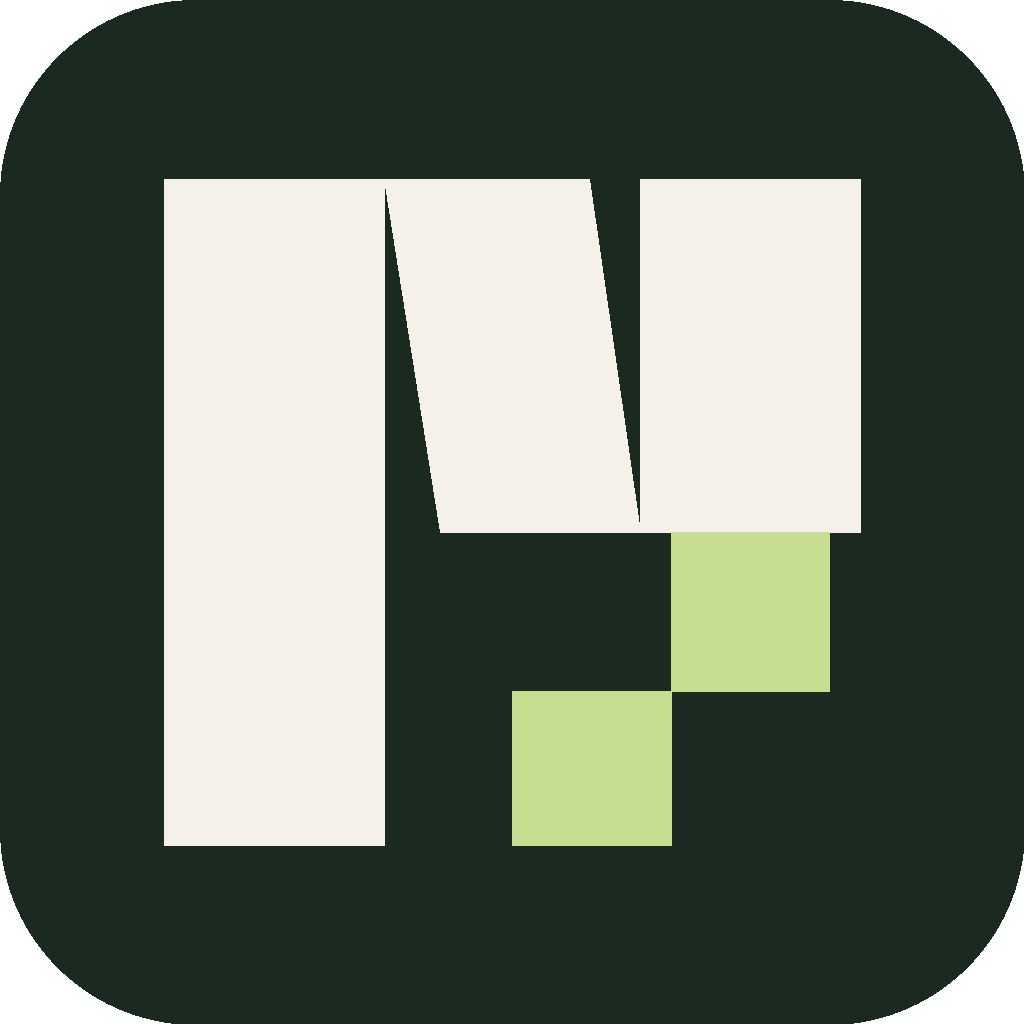
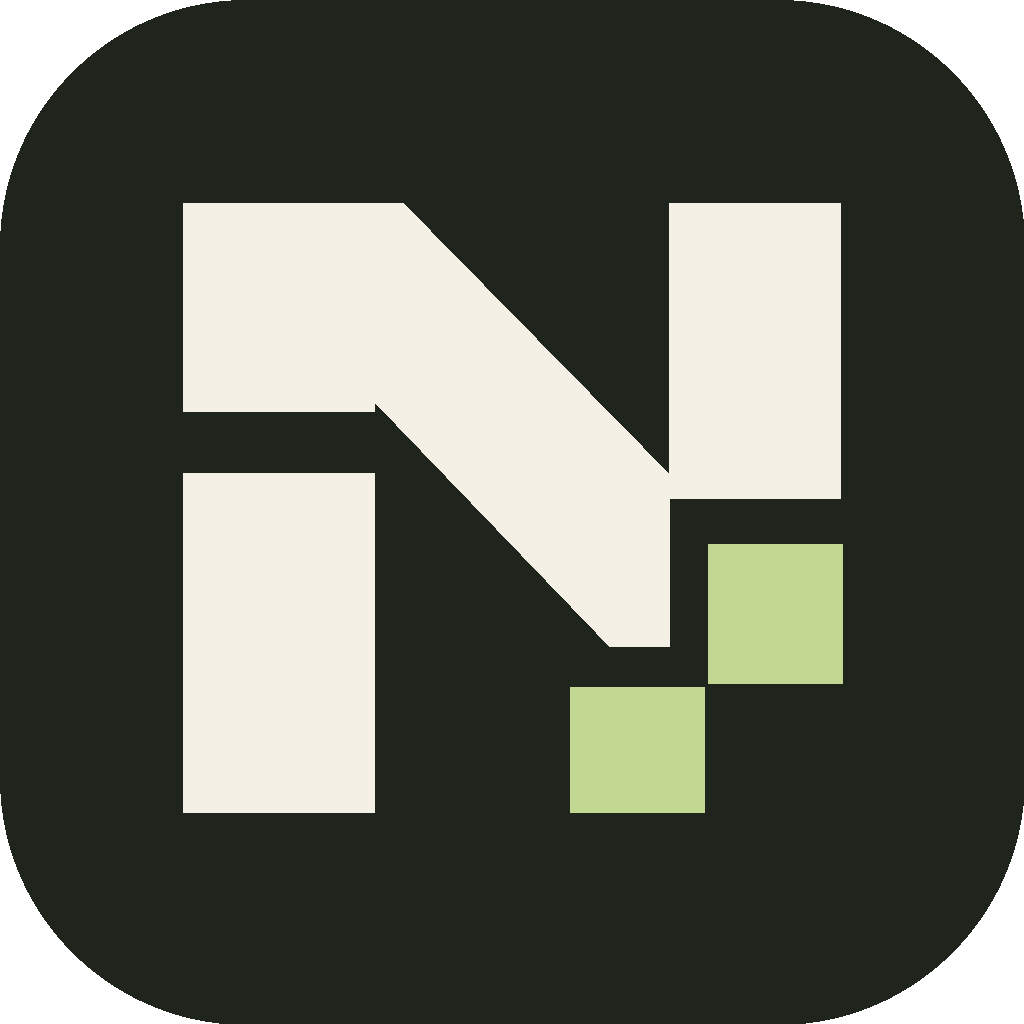
redesign(step2c): الشعار مطابق القياس المرجعي + علامة الترويسة + legacy-log
- القياس من docs/redesign/assets/logo.png نفسها (بكسل-بكسل):
  بلاقة #1F241D · كريمي #F5F0E5 · lime #C1D792 · زاوية 0.24
- الشق: stem upper/lower منفصلان؛ ذراع يمين إلى 487؛ قطر 45°
  مقطوع عمودياً عند الذراع (654) وأسفل الحرف (631)؛ مربعان lime سلّميان
- docs/redesign/assets/logo.svg (السيد) + logo-compare.png (مرجع مقابل الرسم)
- إعادة توليد الأصول بقياس G (icon/maskable/monochrome/إشعارات/splash/favicon/receipt-mark/logo-mark)
- الترويسة/الدخول/البوابة: logo-mark الكريمية على الداكن — ترويسة 38→46 (بلا إطار)،
  دخول 84→96 بإطار lime بدلاً التيل
- brand-splash: هندسة G + القطع بشريط 45° داخل حاوية قصّ (طابق المرجع)
- legacy-log §4.4: بانر المتجر الجديد يبدل مرحلة 4 (بلا لمس الآن)
- فحوص: tsc نظيف، lint 0 أخطاء

diff --git a/mobile/src/design/brand-splash.tsx b/mobile/src/design/brand-splash.tsx
@@ -13,58 +13,57 @@ import { EASE } from './motion';
  * BrandSplash — افتتاحية الشعار داخل التطبيق (منفَّذة في الخطوة 2 بقرار المالك)
  *
  * المشهد: خلفية كريمية (استمرارية الـ native splash) يُبنى فيها حرف N
- * الشريحة شريحة (يسار ← يمين ← قطر) ثم يسقط المربعان lime
- * بسلّم، ويقودها المنحنى التوقيعي. هلنة الأخيرة: تلاشٍ سريع يكشف التطبيق.
+ * شريحة شريحة (الس silicon upper ← الذراع اليمنى ← القطر ← الشق السفلي) ثم
+ * يسقط المربعان lime بسلّم، ويقودها المنحنى التوقيعي. هللة الأخيرة:
+ * تلاشٍ سريع يكشف التطبيق.
  *
- * هندسة الشرائح مرآة للسيد `assets/_brand/logo.svg` (وGEO في مولد الأصول)
- * — أي تعديل للشعار يبدأ من السيد ثم يُنقل هنا.
+ * هندسة الشرائح مرآة للسيد `assets/_brand/logo.svg` (G في مولد الأصول
+ * gen_brand3) — أي تعديل للشعار يبدأ من السيد ثم يُنقل هنا.
  *
  * القواعد:
  * - reduced motion → ترتلك الفتلة فوراً وينكشف التطبيق مباشرة.
- * - لا تؤخر التطبيق: تُعرض فوقه أثناء التحميل، وتُرفع بعد مشاهد كاملة
- *   (≈1.1s) لا تتغير بحجم الخطوط (المكوّن مستقل عن الـ fonts).
+ * - على الكريمي تظهر الكريمية شرائح حبرية (مقيسة من المرجع) + المربعان lime.
  */
 
-/* ألوان الهوية الثابتة (لا ثيم هنا — الافتتاحية كريمية دائماً) */
+/* ألوان الهوية المقيسة من المرجع (لا ثيم هنا — الافتتاحية كريمية دائماً) */
 const CREAM = '#F5F1E8';
-const INK = '#1B2A21';
-const LIME = '#C5DE8F';
+const INK = '#1F241D';
+const LIME = '#C1D792';
 
-/* هندسة الرسم (كسور من حاوية ART — مرآة logo.svg) */
+/* هندسة الرسم — مرآة G في logo.svg: İç نفس القيم (0..1000) على ART */
 const ART = 176;
 const GEO = {
-  top: 0.175,
-  bottom: 0.825,
-  l: { x: 0.16, w: 0.215 },
-  r: { x: 0.625, w: 0.215, y2: 0.52 },
-  /** القطع: قطع علوي/سفلي أفقيان + إمالة skew تحاكي الشرائح الموازية */
-  diag: { w: 0.2, h: 0.345, shift: 0.05 },
-  a: { x: 0.655, y: 0.52, s: 0.155 },
-  b: { x: 0.5, y: 0.675, s: 0.155 },
+  stemUpper: [179, 199, 366, 402],
+  stemLower: [179, 462, 366, 793],
+  stemRight: [654, 199, 821, 487],
+  diag: [179, 199, 394, 199, 654, 463, 654, 631, 595, 631],
+  limeA: [692, 532, 823, 667],
+  limeB: [557, 671, 688, 793],
 } as const;
 
-/* إمالة القطع: tan = الإزاحة/الارتفاع — ثابتة مهما كان حجم الفن */
-const DIAG_SKEW_DEG = Math.round(
-  (Math.atan(GEO.diag.shift / GEO.diag.h) * 180) / Math.PI * 100,
-) / 100; // ≈ 8.25deg
+/* القطع: شريط مائل 45° (skewX) داخل حاوية قصّ عند حاجة الذراع اليمنى (x=654)
+   وأسفل الحرف (y=631) — فتطابق القطع العمودي المقطوع في المرجع تماماً.
+   مستطيل الشريط: أعلى y=215 (دون ثغرة الشق العلوية)، ارتفاع إلى 631،
+   عرض القطع الأفقي 230، والحواف العمودية تُمِل بمقدار 45°. */
+const DIAG_SKEW_DEG = 45;
+const DIAG_CLIP = { left: 179, top: 215, w: 475, h: 416 };
+/* موضع الشريط داخل القماش: يسار = 179 + h/2 (تعويض الإزاحة حول المركز) */
+const DIAG_BAND = { left: 179 + DIAG_CLIP.h / 2, top: 215, w: 230, h: DIAG_CLIP.h };
 
-/* إزاحة يسار القطع بحيث تلتقي حافتها العليا بـ l اليمين تماماً:
-   أعلى-يسار القطع = L0 − (h/2)·tan(α) ⇒ L0 = 0.375 + (0.05/2) = 0.4 */
-const DIAG_LEFT = 0.4;
-
-/** زمن العرض الكامل قبل النداء علىDone (مطابقة للتتابع أدناه) */
+/** زمن العرض الكامل قبل نداء onDone (مطابق للتتابع أدناه) */
 const TOTAL_MS = 1_080;
 
-const px = (f: number) => Math.round(f * ART);
+const px = (f: number) => Math.round((f / 1000) * ART);
 
 export function BrandSplash({ onDone }: { onDone: () => void }) {
   const reduced = useReducedMotion();
   const fired = useRef(false);
 
-  /* قيم الأجزاء: 0 = مخفي/مرتز، 1 = في مكانه */
-  const left = useSharedValue(0);
+  /* قيم الأجزاء: 0 = مخفي/مُزاح، 1 = في مكانه */
+  const up = useSharedValue(0);
   const right = useSharedValue(0);
   const diag = useSharedValue(0);
+  const down = useSharedValue(0);
   const sqA = useSharedValue(0);
   const sqB = useSharedValue(0);
   const veil = useSharedValue(1); /* قناع الإخفاء النهائي */
@@ -79,13 +78,15 @@ export function BrandSplash({ onDone }: { onDone: () => void }) {
       return;
     }
 
-    /* الشرائح تُبنى بالتتابع (يسار → يمين → قطر)، ثم المربعان يهبطان سلّماً */
-    left.value = withDelay(110, withTiming(1, { duration: 120, easing: EASE.signature }));
+    /* الشرائح تُبنى بالتتابع (أعلى يسار → ذراع يمين → قطر → أسفل يسار)،
+       ثم المربعان يهبطان سلّماً */
+    up.value = withDelay(110, withTiming(1, { duration: 120, easing: EASE.signature }));
     right.value = withDelay(210, withTiming(1, { duration: 120, easing: EASE.signature }));
     diag.value = withDelay(330, withTiming(1, { duration: 120, easing: EASE.signature }));
-    sqA.value = withDelay(480, withTiming(1, { duration: 180, easing: EASE.signature }));
-    sqB.value = withDelay(570, withTiming(1, { duration: 180, easing: EASE.signature }));
-    /* سيناريو ختامي قصير: تلاشٍ ثم نرفع الستار (نداء onDone) */
+    down.value = withDelay(430, withTiming(1, { duration: 120, easing: EASE.signature }));
+    sqA.value = withDelay(560, withTiming(1, { duration: 180, easing: EASE.signature }));
+    sqB.value = withDelay(650, withTiming(1, { duration: 180, easing: EASE.signature }));
+    /* سيناريو ختامي: تلاشٍ ثم رفع الستار (نداء onDone) */
     veil.value = withDelay(900, withTiming(0, { duration: 180, easing: EASE.signature }));
 
     const t = setTimeout(() => {
@@ -93,13 +94,14 @@ export function BrandSplash({ onDone }: { onDone: () => void }) {
         fired.current = true;
         onDone();
       }
-    }, TOTAL_MS);    return () => clearTimeout(t);
-  }, [reduced, left, right, diag, sqA, sqB, veil, onDone]);
+    }, TOTAL_MS);
+    return () => clearTimeout(t);
+  }, [reduced, up, right, diag, down, sqA, sqB, veil, onDone]);
 
   /* مقابض الحركة */
-  const leftStyle = useAnimatedStyle(() => ({
-    opacity: left.value,
-    transform: [{ translateY: -8 * (1 - left.value) }],
+  const upStyle = useAnimatedStyle(() => ({
+    opacity: up.value,
+    transform: [{ translateY: -8 * (1 - up.value) }],
   }));
   const rightStyle = useAnimatedStyle(() => ({
     opacity: right.value,
@@ -108,11 +110,15 @@ export function BrandSplash({ onDone }: { onDone: () => void }) {
   const diagStyle = useAnimatedStyle(() => ({
     opacity: diag.value,
     transform: [
-      /* الإمالة مع حركة الدخول: حركة القطر من أعلى-يسار إلى أسفل-يمين */
+      /* الإمالة مع حركة الدخول قطرياً */
       { skewX: `${DIAG_SKEW_DEG}deg` },
       { translateX: -8 * (1 - diag.value) },
       { translateY: -8 * (1 - diag.value) },
     ],
+  }));
+  const downStyle = useAnimatedStyle(() => ({
+    opacity: down.value,
+    transform: [{ translateY: 8 * (1 - down.value) }],
   }));
   const sqAStyle = useAnimatedStyle(() => ({
     opacity: sqA.value,
@@ -128,57 +134,81 @@ export function BrandSplash({ onDone }: { onDone: () => void }) {
 
   return (
     <Animated.View style={[styles.veil, veilStyle]} pointerEvents="auto">
-      {/* فن الشعار: N حبري حاد الأركان + مربعان lime (بلا بلاقة — على الكريمي) */}
+      {/* فن الشعار: شرائح حبرية بحاد الأركان + المربعان (بلا بلاقة — على الكريمي) */}
       <View style={{ width: ART, height: ART }}>
         <Animated.View
           style={[
             styles.slab,
             {
-              left: px(GEO.l.x),
-              top: px(GEO.top),
-              width: px(GEO.l.w),
-              height: px(GEO.bottom - GEO.top),
+              left: px(GEO.stemUpper[0]),
+              top: px(GEO.stemUpper[1]),
+              width: px(GEO.stemUpper[2] - GEO.stemUpper[0]),
+              height: px(GEO.stemUpper[3] - GEO.stemUpper[1]),
               backgroundColor: INK,
             },
-            leftStyle,
+            upStyle,
           ]}
         />
         <Animated.View
           style={[
             styles.slab,
             {
-              left: px(GEO.r.x),
-              top: px(GEO.top),
-              width: px(GEO.r.w),
-              height: px(GEO.r.y2 - GEO.top),
+              left: px(GEO.stemRight[0]),
+              top: px(GEO.stemRight[1]),
+              width: px(GEO.stemRight[2] - GEO.stemRight[0]),
+              height: px(GEO.stemRight[3] - GEO.stemRight[1]),
               backgroundColor: INK,
             },
             rightStyle,
           ]}
         />
-        {/* القطع: مستطيل بإمالة skew (تُطبّق داخل diagStyle) — الحواف الأفقية تبقى أفقية */}
+        {/* القطع: شريط 45° داخل حاوية قصّ عند حافة الذراع اليمنى — مطابق للمرجع */}
+        <View
+          style={{
+            position: 'absolute',
+            left: px(DIAG_CLIP.left),
+            top: px(DIAG_CLIP.top),
+            width: px(DIAG_CLIP.w),
+            height: px(DIAG_CLIP.h),
+            overflow: 'hidden',
+          }}
+        >
+          <Animated.View
+            style={[
+              styles.slab,
+              {
+                left: px(DIAG_BAND.left - DIAG_CLIP.left),
+                top: px(DIAG_BAND.top - DIAG_CLIP.top),
+                width: px(DIAG_BAND.w),
+                height: px(DIAG_BAND.h),
+                backgroundColor: INK,
+              },
+              diagStyle,
+            ]}
+          />
+        </View>
         <Animated.View
           style={[
             styles.slab,
             {
-              left: px(DIAG_LEFT),
-              top: px(GEO.top),
-              width: px(GEO.diag.w),
-              height: px(GEO.diag.h),
+              left: px(GEO.stemLower[0]),
+              top: px(GEO.stemLower[1]),
+              width: px(GEO.stemLower[2] - GEO.stemLower[0]),
+              height: px(GEO.stemLower[3] - GEO.stemLower[1]),
               backgroundColor: INK,
             },
-            diagStyle,
+            downStyle,
           ]}
         />
-        {/* المربعان lime — يهبطان سلّماً */}
+        {/* المربعان lime يهبطان سلّماً */}
         <Animated.View
           style={[
             styles.slab,
             {
-              left: px(GEO.a.x),
-              top: px(GEO.a.y),
-              width: px(GEO.a.s),
-              height: px(GEO.a.s),
+              left: px(GEO.limeA[0]),
+              top: px(GEO.limeA[1]),
+              width: px(GEO.limeA[2] - GEO.limeA[0]),
+              height: px(GEO.limeA[3] - GEO.limeA[1]),
               backgroundColor: LIME,
             },
             sqAStyle,
@@ -188,10 +218,10 @@ export function BrandSplash({ onDone }: { onDone: () => void }) {
           style={[
             styles.slab,
             {
-              left: px(GEO.b.x),
-              top: px(GEO.b.y),
-              width: px(GEO.b.s),
-              height: px(GEO.b.s),
+              left: px(GEO.limeB[0]),
+              top: px(GEO.limeB[1]),
+              width: px(GEO.limeB[2] - GEO.limeB[0]),
+              height: px(GEO.limeB[3] - GEO.limeB[1]),
               backgroundColor: LIME,
             },
             sqBStyle,

diff --git a/mobile/src/app/login.tsx b/mobile/src/app/login.tsx
@@ -19,7 +19,7 @@ import Icon from '@/components/ui/Icon';
 import { FONT } from '@/lib/fonts';
 import { ROW } from '@/lib/rtl';
 
-const LOGO = require('../../assets/_brand/logo.png');
+const LOGO = require('../../assets/_brand/logo-mark.png');
 
 export default function LoginScreen() {
   const loginWithPassword = useAuthStore((s) => s.loginWithPassword);
@@ -194,20 +194,21 @@ const styles = StyleSheet.create({
     marginBottom: 20,
   },
   logoFrame: {
-    width: 84,
-    height: 84,
-    borderRadius: 24,
+    width: 96,
+    height: 96,
+    borderRadius: 28,
     padding: 3,
     backgroundColor: '#131d31',
+    /* lime الهوية بدلاً عن التيل القديم — حبر واضح حول العلامة على الداكن */
     borderWidth: 2,
-    borderColor: '#14b8a6',
-    marginBottom: 10,
+    borderColor: 'rgba(193, 215, 146, 0.5)',
+    marginBottom: 12,
     overflow: 'hidden',
   },
   logo: {
     width: '100%',
     height: '100%',
-    borderRadius: 20,
+    borderRadius: 24,
   },
   brandTitle: {
     fontFamily: FONT.bold,

diff --git a/mobile/src/app/(store)/index.tsx b/mobile/src/app/(store)/index.tsx
@@ -47,7 +47,8 @@ import { FONT } from '@/lib/fonts';
 import { colors, triggerLightHaptic } from '@/lib/colors';
 import { ROW } from '@/lib/rtl';
 
-const LOGO = require('../../../assets/_brand/logo.png');
+/* علامة الشعار (كريمية بلا بلاقة) — تباين كامل على الخلفية الداكنة */
+const LOGO = require('../../../assets/_brand/logo-mark.png');
 
 export default function StoreHomeScreen() {
   const selectedBranchId = useAppStore((s) => s.selectedBranchId);
@@ -525,11 +526,9 @@ const styles = StyleSheet.create({
     flexShrink: 1,
   },
   brandLogo: {
-    width: 38,
-    height: 38,
-    borderRadius: 11,
-    borderWidth: 1,
-    borderColor: colors.borderSubtle,
+    /* علامة الشعار الكريمية — أكبر ويوماً على الداكن (لا بلاقة ولا إطار) */
+    width: 46,
+    height: 46,
   },
   brandTextCol: {
     alignItems: 'flex-end',

diff --git a/mobile/src/components/store/BranchGate.tsx b/mobile/src/components/store/BranchGate.tsx
@@ -53,7 +53,7 @@ export default function BranchGate() {
             }}
           >
             <Image
-              source={require('../../../assets/_brand/logo.png')}
+              source={require('../../../assets/_brand/logo-mark.png')}
               style={{ width: 68, height: 68 }}
               contentFit="contain"
               accessibilityLabel="شعار المتجر"

diff --git a/docs/redesign/01-design-plan.md b/docs/redesign/01-design-plan.md
@@ -136,7 +136,15 @@ worklets (transform/opacity فقط) على خيط الواجهة، و`useReduced
 | فكرة I | لم تُختبر |
 
 > تُنفَّذ في الخطوة 4 (شاشات الزبون). بطاقة البطل ليست رفّاً — إنها فتحة واحدة
-> ببارتفاع واضح يعرض الأكثر طلباً بنبرة الإيصال، ولا تكسر إيقاع الرفوف بعدها.
+> ببارتفاع واضح تُظهر الأكثر طلباً بنبرة الإيصال، ولا تكسر إيقاع الرفوف بعدها.
+
+### 4.4 الأصول القديمة السياقية للاستبدال (مرحلة 4 — recorded مؤقتاً بلا لمس)
+
+| الأصل | الموقع | الحالة |
+|---|---|---|
+| بانر المتجر بشعار عربي قديم | `src/components/store/HeroSection.tsx` (cover.png) | يُستبدل ببانر الهوية في مرحلة 4 — لم يلمَس الآن (قرار المالك) |
+| إطار تيل قديم حول شعار الدخول | `src/app/login.tsx` (logoFrame) | حُوّل للـ lime الهوية (2026-11-05 مؤقتاً حتى إعادة بناء الدخول) |
+| أيقونات بلاطات الألعاب ألوانها سياقية (ItemTitleCard الخ) | screens المتجر | تتبع مرحلة 4 |
 
 ## 5) المكوّنات المجمعّة `src/design/` (تعزير كامل بلوحات الحالة)
 
